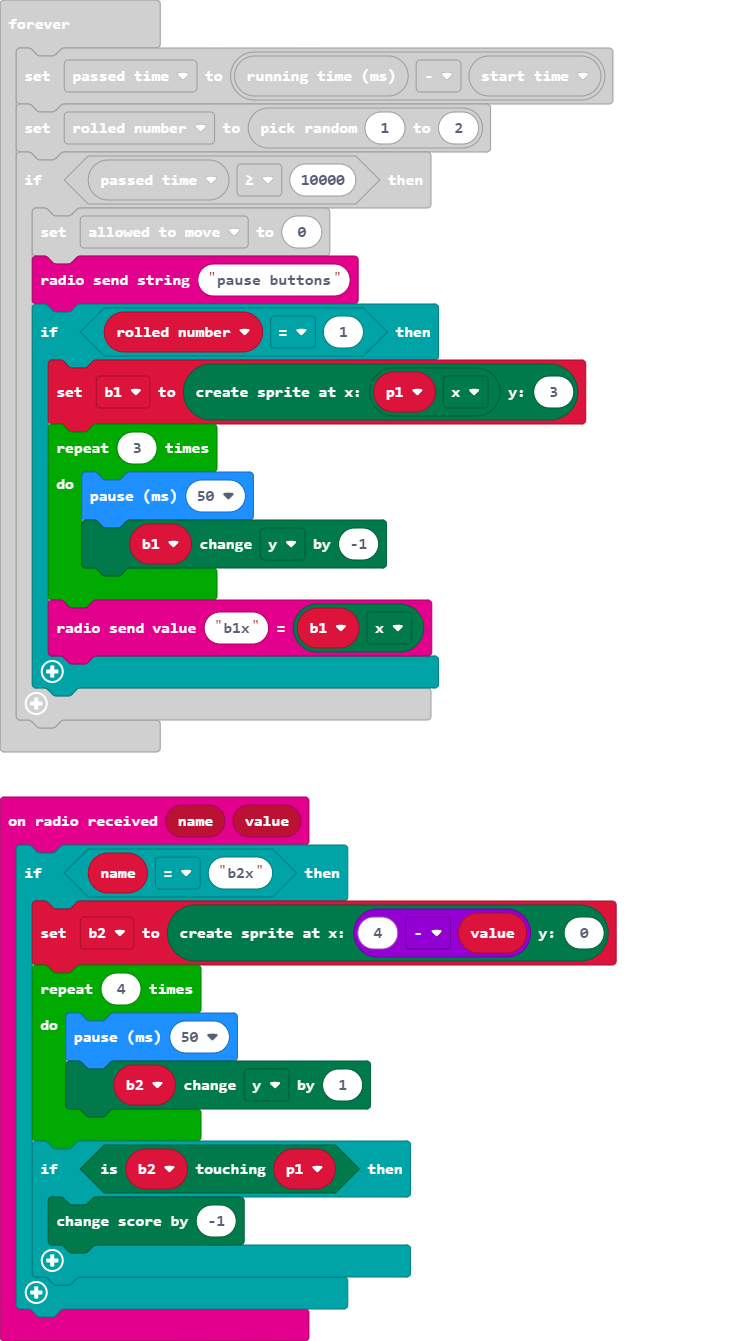
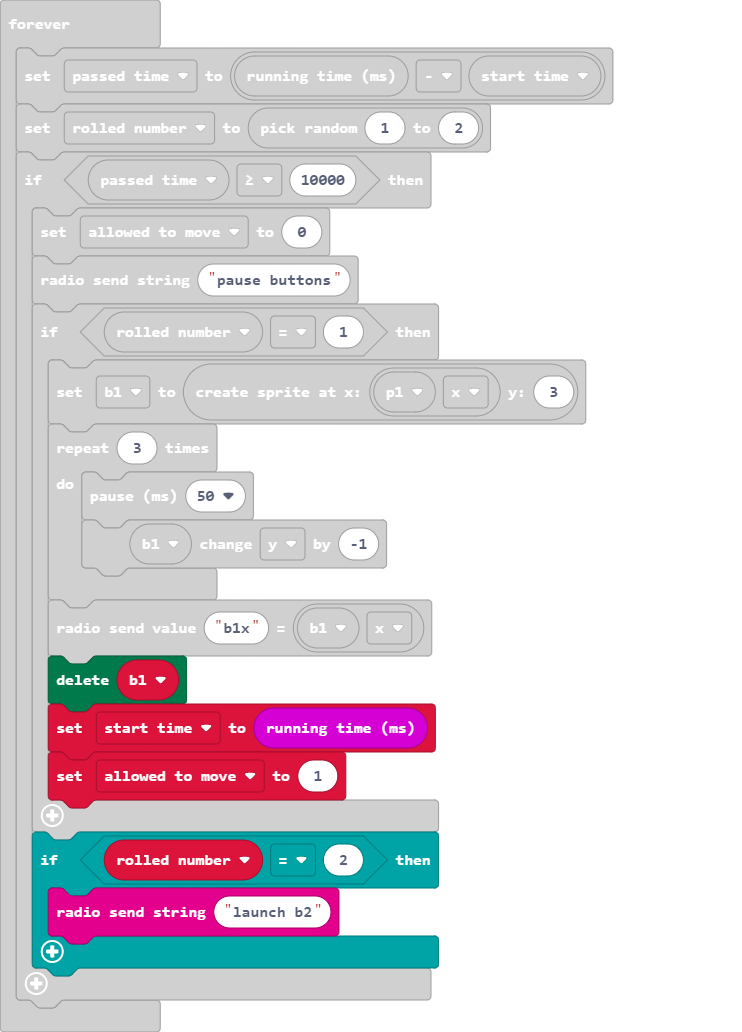
Update main.blocks, main.ts

diff --git a/main.ts b/main.ts
@@ -43,6 +43,12 @@ basic.forever(function () {
                 b1.change(LedSpriteProperty.Y, -1)
             }
             radio.sendValue("b1x", b1.get(LedSpriteProperty.X))
+            b1.delete()
+            start_time = input.runningTime()
+            allowed_to_move = 1
+        }
+        if (rolled_number == 2) {
+            radio.sendString("launch b2")
         }
     }
 })
